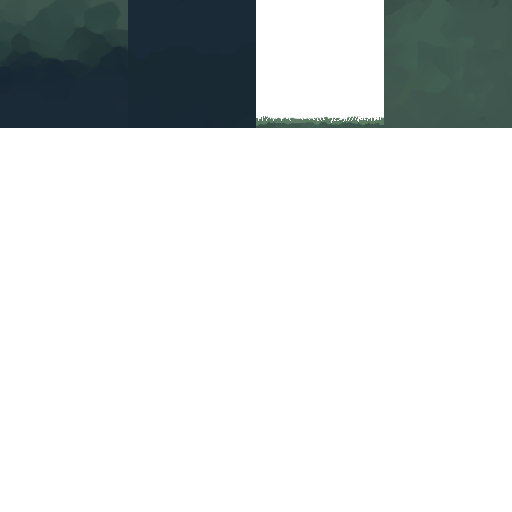
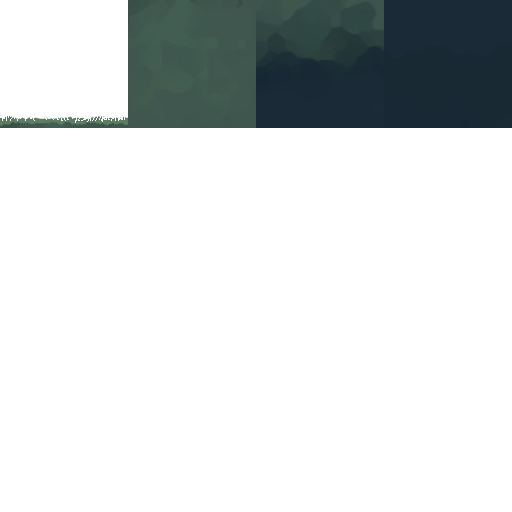
fixed tiles order modifieid spritesheet method to reuse an already loaded texture modified to load sprites for tiles using the tiles image instead separated images

Changed region(s): [[0.0, 0.0, 1.0, 0.25]]

diff --git a/taken-core/src/main/java/com/gemserk/games/taken/GameScreen.java b/taken-core/src/main/java/com/gemserk/games/taken/GameScreen.java
@@ -131,7 +131,7 @@ public class GameScreen extends ScreenAdapter {
 		private final LibgdxPointer pointer;
 
 		private final Vector2 previousPosition = new Vector2();
-		
+
 		private final Vector2 direction = new Vector2();
 
 		private boolean walking;
@@ -150,7 +150,7 @@ public class GameScreen extends ScreenAdapter {
 			jumping = false;
 
 			pointer.update();
-			
+
 			if (pointer.wasPressed) {
 				previousPosition.set(pointer.getPosition());
 			}
@@ -167,7 +167,7 @@ public class GameScreen extends ScreenAdapter {
 				jumping = true;
 				// previousPosition.set(pointer.getPosition());
 			}
-			
+
 			previousPosition.set(pointer.getPosition());
 
 		}
@@ -387,6 +387,7 @@ public class GameScreen extends ScreenAdapter {
 	}
 
 	void loadWorld() {
+
 		SvgParser svgParser = new SvgParser();
 		svgParser.addHandler(new SvgDocumentHandler() {
 			@Override
@@ -417,7 +418,7 @@ public class GameScreen extends ScreenAdapter {
 				if (svgImage.getLabel() == null)
 					return;
 
-				Resource<Texture> texture = resourceManager.get(svgImage.getLabel());
+				Resource<SpriteSheet> texture = resourceManager.get(svgImage.getLabel());
 
 				if (texture == null)
 					return;
@@ -445,7 +446,7 @@ public class GameScreen extends ScreenAdapter {
 				float x = position.x;
 				float y = svgDocument.getHeight() - position.y;
 
-				Sprite sprite = new Sprite(texture.get());
+				Sprite sprite = new Sprite(texture.get().getFrame(0));
 				sprite.setScale(sx, sy);
 
 				createStaticSprite(sprite, x, y, width, height, angle, 0, 0.5f, 0.5f, Color.WHITE);
@@ -606,9 +607,9 @@ public class GameScreen extends ScreenAdapter {
 			@Override
 			public Entity build() {
 				// TODO Auto-generated function stub
-				
+
 				// limit robot spawner!!
-				
+
 				SpatialComponent spatialComponent = mainCharacter.getComponent(SpatialComponent.class);
 				Vector2 position = spatialComponent.getPosition();
 
@@ -926,32 +927,38 @@ public class GameScreen extends ScreenAdapter {
 
 				texture("Background", "data/background-512x512.jpg");
 
-				texture("Tile01", "data/tile01.png");
-				texture("Tile02", "data/tile02.png");
-				texture("Tile03", "data/tile03.png");
-				texture("Tile04", "data/tile04.png");
+				texture("Tiles", "data/tiles.png", false);
+				
+				// add method for sprites (with or without cache)
+
+				spriteSheet("Tile01", "Tiles", 128 * 0, 0, 128, 128, 1);
+				spriteSheet("Tile02", "Tiles", 128 * 1, 0, 128, 128, 1);
+				spriteSheet("Tile03", "Tiles", 128 * 2, 0, 128, 128, 1);
+				spriteSheet("Tile04", "Tiles", 128 * 3, 0, 128, 128, 1);
 
 				texture("FontTexture", "data/font.png");
 
-				spriteSheet("Human_Walking", "data/animation2.png", 0, 32, 32, 32, 2);
-				spriteSheet("Human_Idle", "data/animation2.png", 0, 0, 32, 32, 2);
-				spriteSheet("Human_Jump", "data/animation2.png", 0, 64, 32, 32, 1);
-				spriteSheet("Human_Fall", "data/animation2.png", 0, 96, 32, 32, 2);
+				texture("CharactersSpriteSheet", "data/animation2.png", false);
 
-				spriteSheet("Robo", "data/animation2.png", 96, 32, 32, 32, 1);
+				spriteSheet("Human_Walking", "CharactersSpriteSheet", 0, 32, 32, 32, 2);
+				spriteSheet("Human_Idle", "CharactersSpriteSheet", 0, 0, 32, 32, 2);
+				spriteSheet("Human_Jump", "CharactersSpriteSheet", 0, 64, 32, 32, 1);
+				spriteSheet("Human_Fall", "CharactersSpriteSheet", 0, 96, 32, 32, 2);
 
-				spriteSheet("Enemy", "data/animation2.png", 64, 32, 32, 32, 1);
+				spriteSheet("Robo", "CharactersSpriteSheet", 96, 32, 32, 32, 1);
 
-				spriteSheet("EnemyLaser", "data/animation2.png", 64, 0, 32, 32, 3);
-				spriteSheet("FriendlyLaser", "data/animation2.png", 64, 64, 32, 32, 3);
+				spriteSheet("Enemy", "CharactersSpriteSheet", 64, 32, 32, 32, 1);
 
-				spriteSheet("FrontBloodOverlay", "data/animation2.png", 0, 4 * 32, 32, 32, 3);
-				spriteSheet("SideBloodOverlay", "data/animation2.png", 0, 5 * 32, 32, 32, 3);
+				spriteSheet("EnemyLaser", "CharactersSpriteSheet", 64, 0, 32, 32, 3);
+				spriteSheet("FriendlyLaser", "CharactersSpriteSheet", 64, 64, 32, 32, 3);
 
-				spriteSheet("HealthVial", "data/animation2.png", 5 * 32, 0, 32, 32, 2);
+				spriteSheet("FrontBloodOverlay", "CharactersSpriteSheet", 0, 4 * 32, 32, 32, 3);
+				spriteSheet("SideBloodOverlay", "CharactersSpriteSheet", 0, 5 * 32, 32, 32, 3);
 
-				spriteSheet("Powerup01", "data/animation2.png", 5 * 32, 2 * 32, 32, 32, 2);
-				spriteSheet("Powerup02", "data/animation2.png", 5 * 32, 3 * 32, 32, 32, 2);
+				spriteSheet("HealthVial", "CharactersSpriteSheet", 5 * 32, 0, 32, 32, 2);
+
+				spriteSheet("Powerup01", "CharactersSpriteSheet", 5 * 32, 2 * 32, 32, 32, 2);
+				spriteSheet("Powerup02", "CharactersSpriteSheet", 5 * 32, 3 * 32, 32, 32, 2);
 
 				sound("Jump", "data/jump.ogg");
 				sound("FriendlyLaserSound", "data/laser.ogg");
@@ -961,19 +968,19 @@ public class GameScreen extends ScreenAdapter {
 				sound("HealthVialSound", "data/healthvial.ogg");
 			}
 
-			private void spriteSheet(String id, final String file, final int x, final int y, final int w, final int h, final int framesCount) {
+			private void spriteSheet(String id, final String spriteSheetId, final int x, final int y, final int w, final int h, final int framesCount) {
 				resourceManager.add(id, new ResourceLoaderImpl<SpriteSheet>(new DataLoader<SpriteSheet>() {
 
 					@Override
 					public SpriteSheet load() {
 
-						Texture spriteSheet = new Texture(internal(file));
+						Resource<Texture> spriteSheet = resourceManager.get(spriteSheetId);
 
 						Sprite[] frames = new Sprite[framesCount];
 						for (int i = 0; i < frames.length; i++)
-							frames[i] = new Sprite(spriteSheet, x + i * w, y, w, h);
+							frames[i] = new Sprite(spriteSheet.get(), x + i * w, y, w, h);
 
-						return new SpriteSheet(spriteSheet, frames);
+						return new SpriteSheet(spriteSheet.get(), frames);
 					}
 
 				}));
